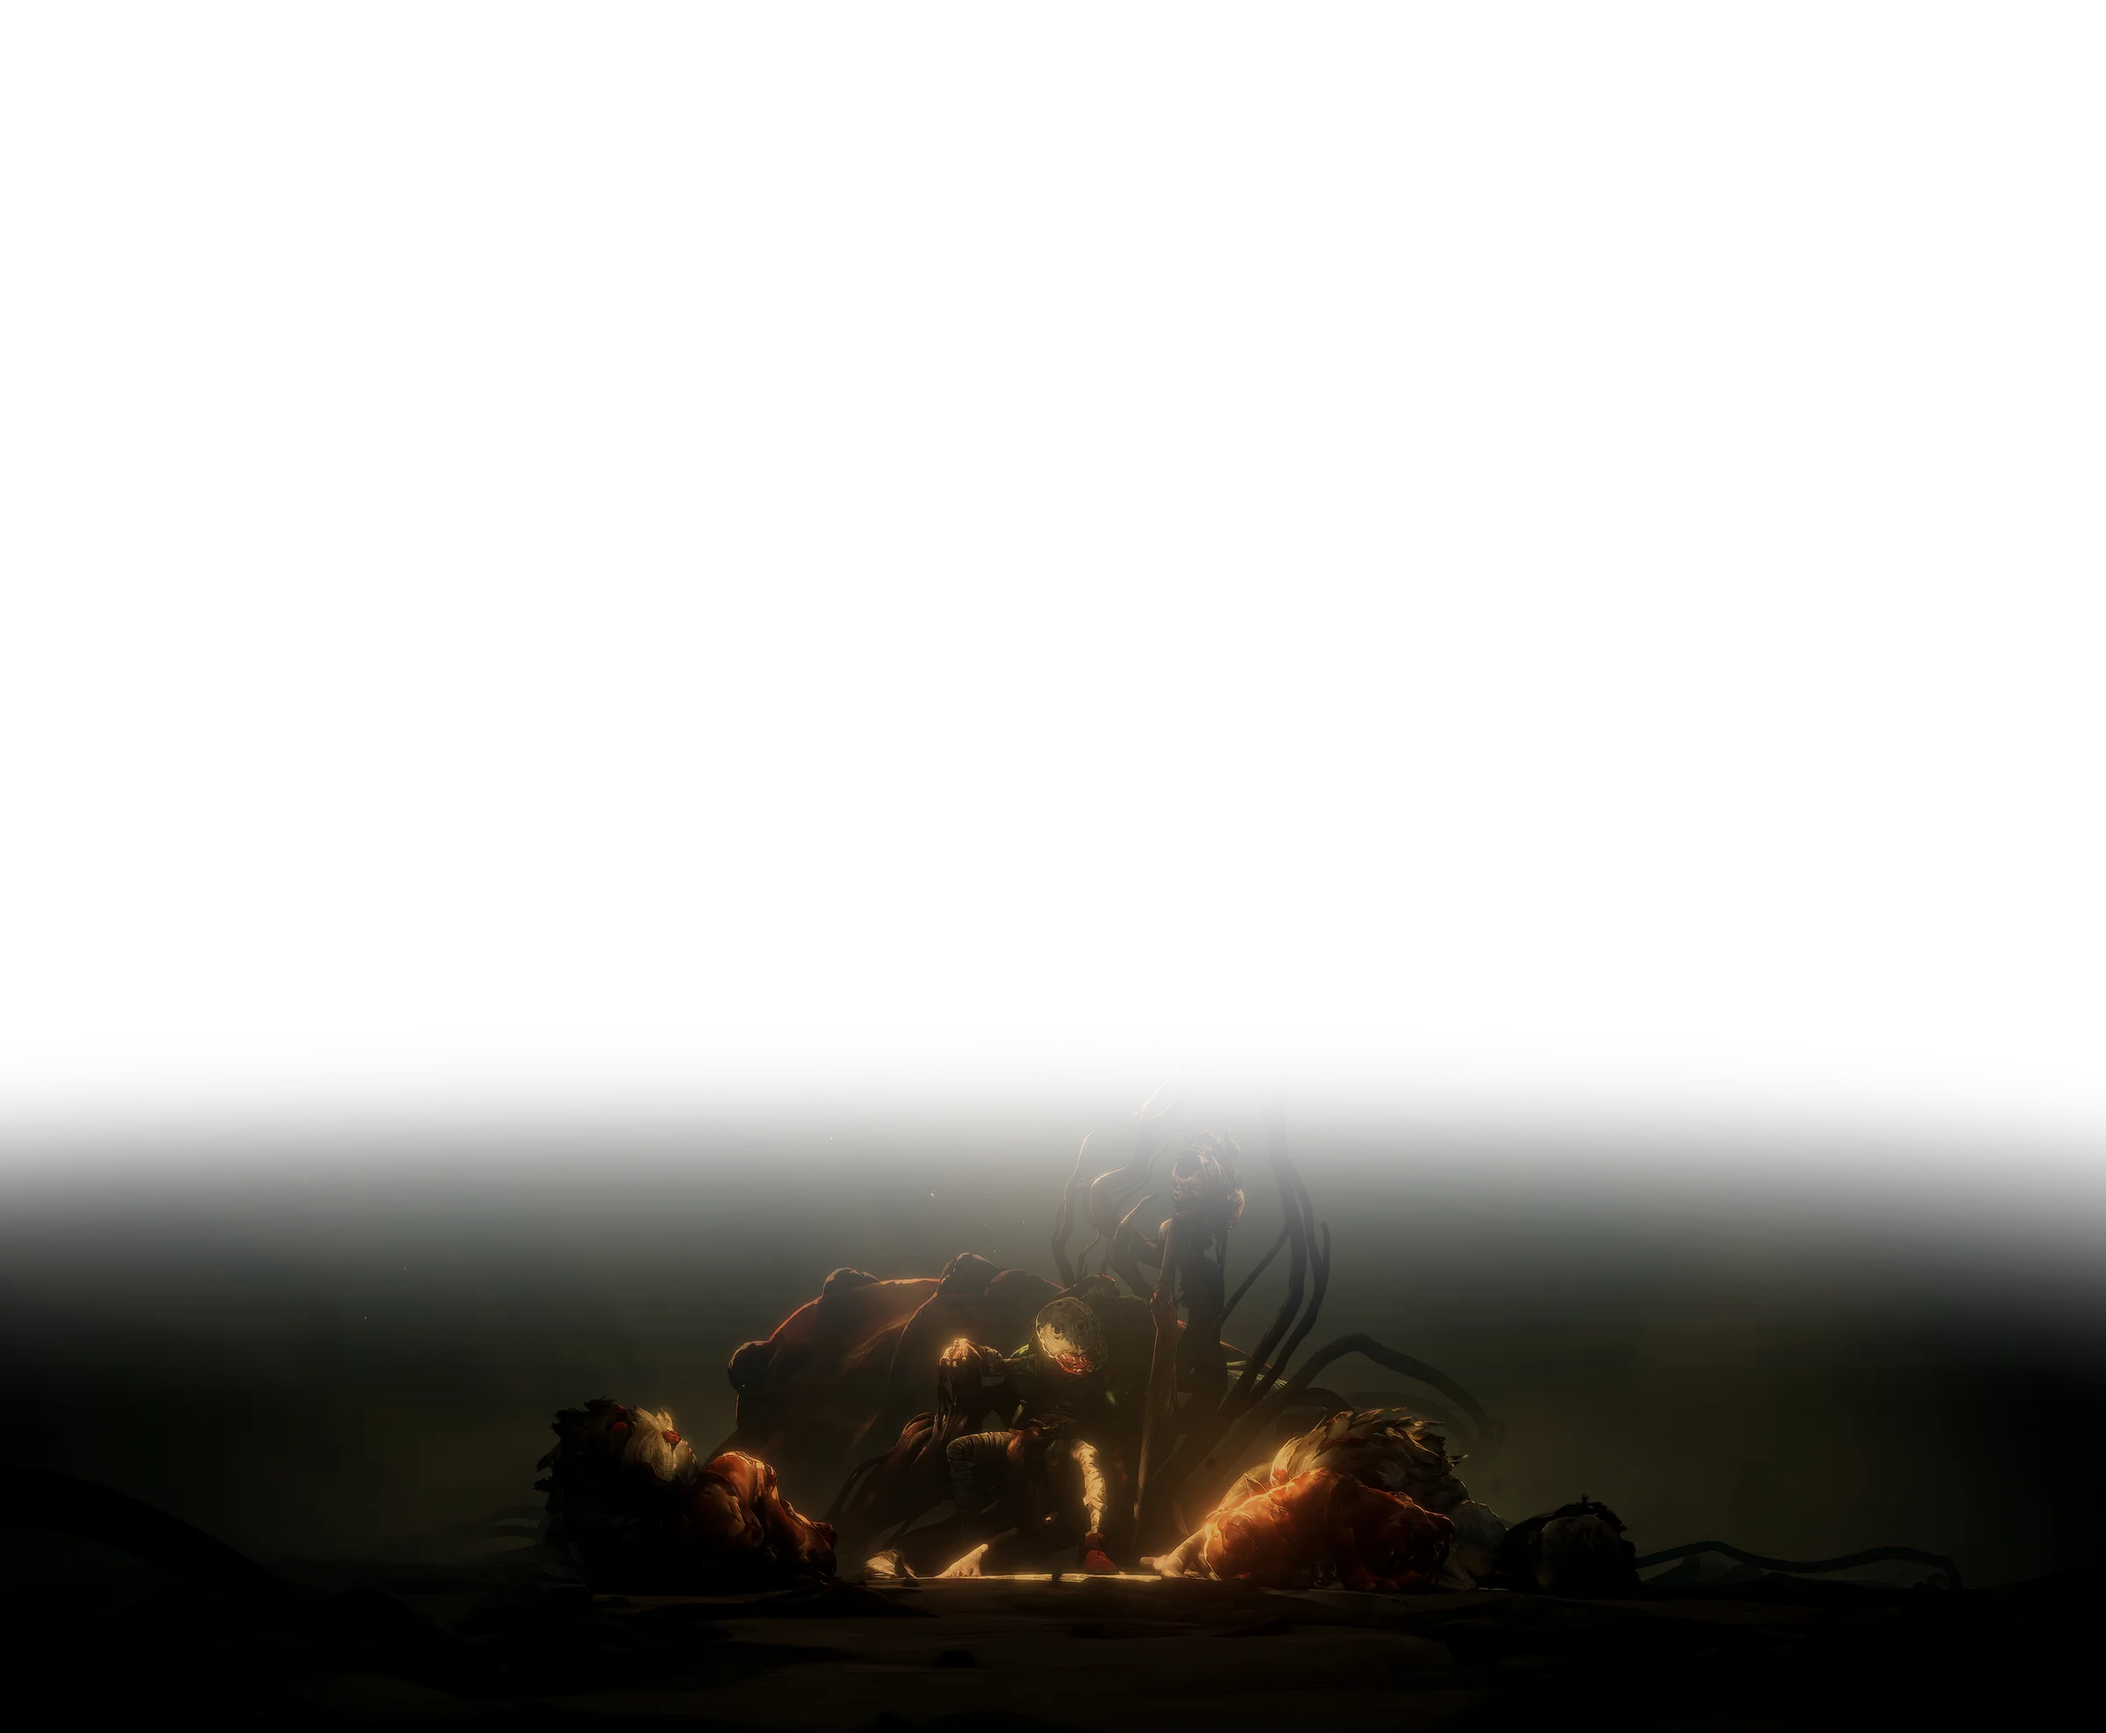
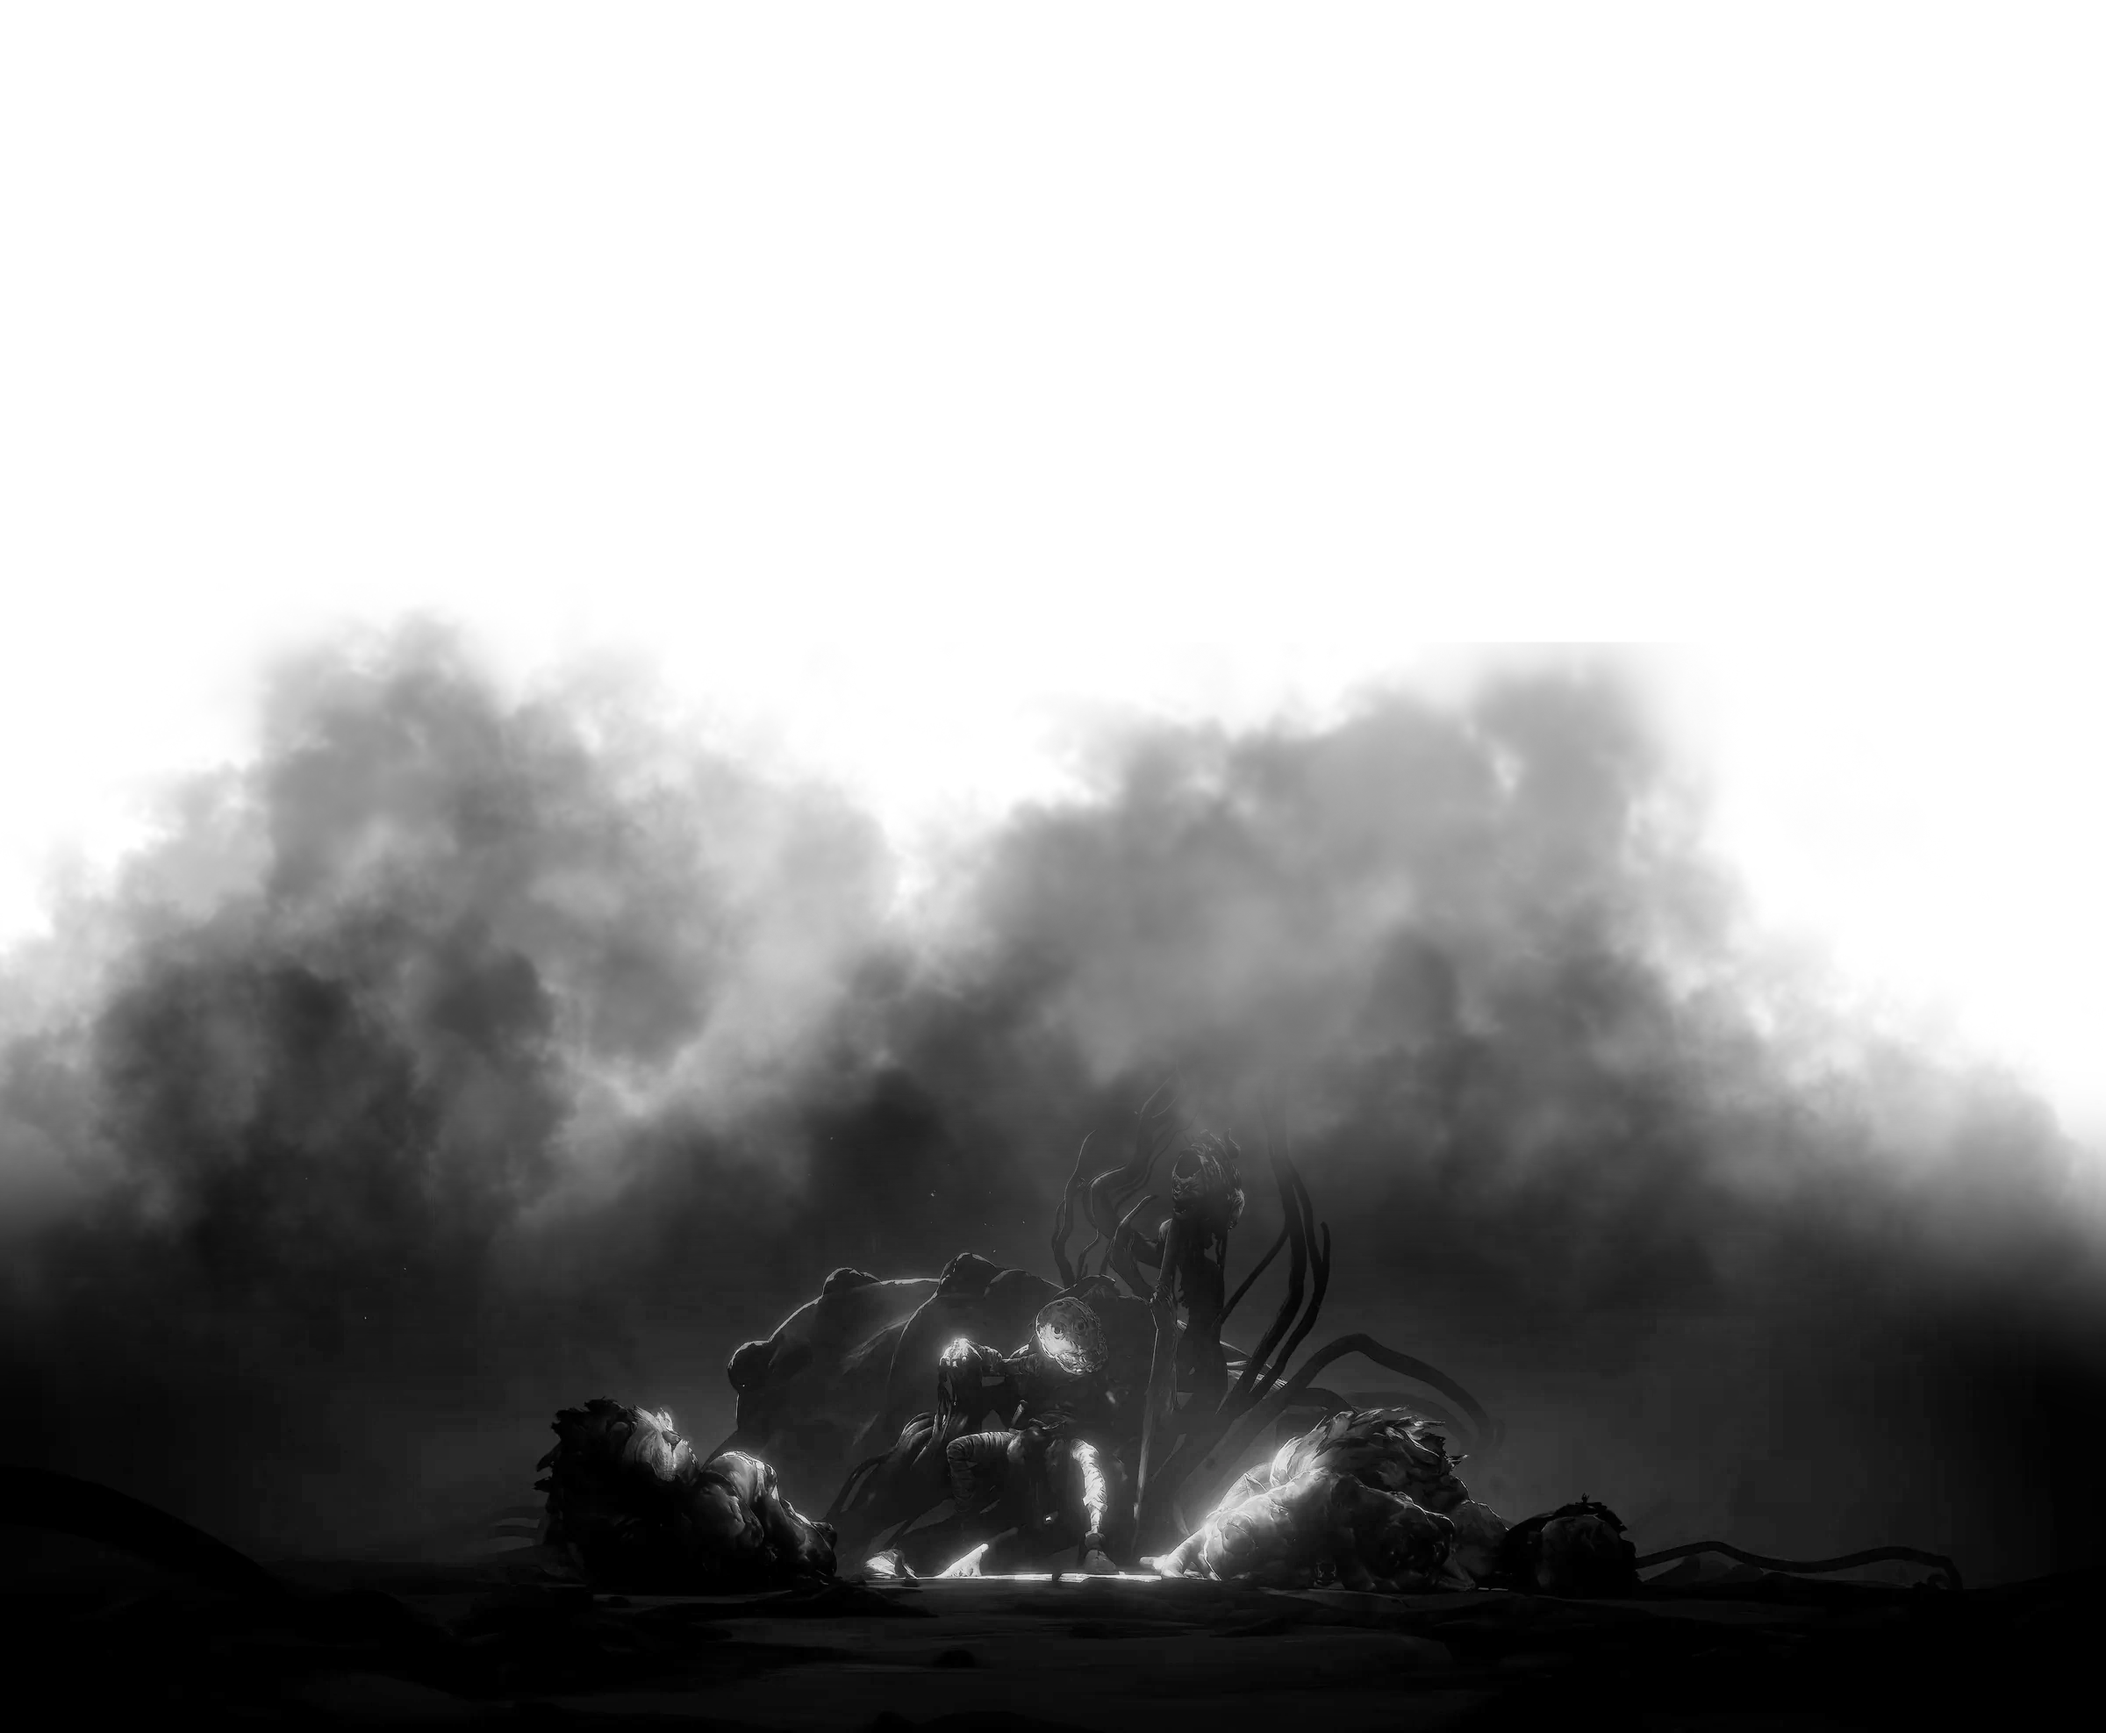
Background smoke and edited footer art

diff --git a/index.html b/index.html
@@ -686,11 +686,17 @@ window.__gcCount=(function(){ var last=location.pathname+location.hash; return f
 </script>
 <script data-goatcounter="https://wickeddossier.goatcounter.com/count" async src="//gc.zgo.at/count.js"></script>
 <style id="bg-dim">:root{--bgdim:.08;--grounddim:.2}
-body:not(.on-home) .header-bg,body:not(.on-home) .footer-bg{filter:brightness(var(--bgdim))!important}
-body::before{background:radial-gradient(90% 70% at 50% 40%,#0c0b0a 0%,#070706 55%,#040404 100%),#040404!important}
+body:not(.on-home) .header-bg,body:not(.on-home) .footer-bg{filter:grayscale(1) sepia(1) hue-rotate(190deg) saturate(.5) brightness(.75)!important;z-index:-2!important}
+body::before{background:radial-gradient(90% 70% at 50% 40%,#0a0d15 0%,#06080e 55%,#04050a 100%),#04050a!important}
 #vellum{opacity:var(--grounddim)!important}
 body::after{opacity:.1!important}
-body.on-home .hero-art{filter:brightness(.12)!important}</style>
+body.on-home .hero-art{filter:brightness(.12)!important}
+#smokeBg{position:fixed;inset:0;z-index:-1;pointer-events:none;overflow:hidden}
+body.on-home #smokeBg{display:none}
+#smokeBg i{position:absolute;display:block;background-repeat:no-repeat;background-size:100% 100%;opacity:var(--o,.2);transform:translate(var(--x0),var(--y0)) rotate(var(--r0)) scale(var(--s0))}
+@keyframes smokeDrift{from{transform:translate(var(--x0),var(--y0)) rotate(var(--r0)) scale(var(--s0))}to{transform:translate(var(--x1),var(--y1)) rotate(var(--r1)) scale(var(--s1))}}
+@keyframes smokeIn{to{opacity:var(--o,.09)}}
+@media (prefers-reduced-motion:reduce){#smokeBg i{animation:smokeIn 1s forwards}}</style>
 </head><body>
 <link rel="preconnect" href="https://fonts.googleapis.com">
 <link rel="preconnect" href="https://fonts.gstatic.com" crossorigin>
@@ -8785,6 +8791,27 @@ var FACET_DATA=[{"n":"Frantic","it":32,"m":[[45,1,0.1],[21,1,-0.2]],"inf":null,"
   window.addEventListener('resize',soon); window.addEventListener('hashchange',soon); window.addEventListener('popstate',soon); window.addEventListener('load',soon);
   var ps=history.pushState; history.pushState=function(){ var r=ps.apply(this,arguments); soon(); return r; };
   soon();
+})();
+</script>
+<script>
+/* drifting background smoke: the game's own smoke sprites, grey, placed at random on every load */
+(function(){
+  try{
+    var host=document.createElement('div'); host.id='smokeBg'; host.setAttribute('aria-hidden','true');
+    var files=[1,2,3,5,6,7,8,9], N=6, W=window.innerWidth, H=window.innerHeight;
+    function r(a,b){ return a+Math.random()*(b-a); }
+    for(var i=0;i<N;i++){
+      var f=files[Math.floor(Math.random()*files.length)], el=document.createElement('i');
+      var w=r(420,900), h=w*r(.65,1.0);
+      el.style.cssText='width:'+w+'px;height:'+h+'px;left:'+r(-.15*W,1.0*W)+'px;top:'+r(-.15*H,1.0*H)+'px;background-image:url(img/smoke-'+f+'.webp);'
+        +'--o:'+r(.2,.36).toFixed(3)+';--d:'+r(45,110).toFixed(0)+'s;animation-delay:'+(-r(0,40)).toFixed(0)+'s,'+r(0,3).toFixed(1)+'s;'
+        +'--x0:'+r(-60,0).toFixed(0)+'px;--y0:'+r(-40,0).toFixed(0)+'px;--x1:'+r(0,90).toFixed(0)+'px;--y1:'+r(0,50).toFixed(0)+'px;'
+        +'--r0:'+r(-12,0).toFixed(0)+'deg;--r1:'+r(0,12).toFixed(0)+'deg;--s0:'+(Math.random()<.5?-1:1)*r(.9,1)+';--s1:'+r(1,1.12).toFixed(2)+';';
+      if(parseFloat(el.style.getPropertyValue('--s0'))<0){ el.style.setProperty('--s0',(-parseFloat(el.style.getPropertyValue('--s0'))).toString()); el.style.backgroundPosition='center'; el.style.transform='scaleX(-1)'; }
+      host.appendChild(el);
+    }
+    document.body.insertBefore(host,document.body.firstChild);
+  }catch(e){}
 })();
 </script>
 </body></html>
